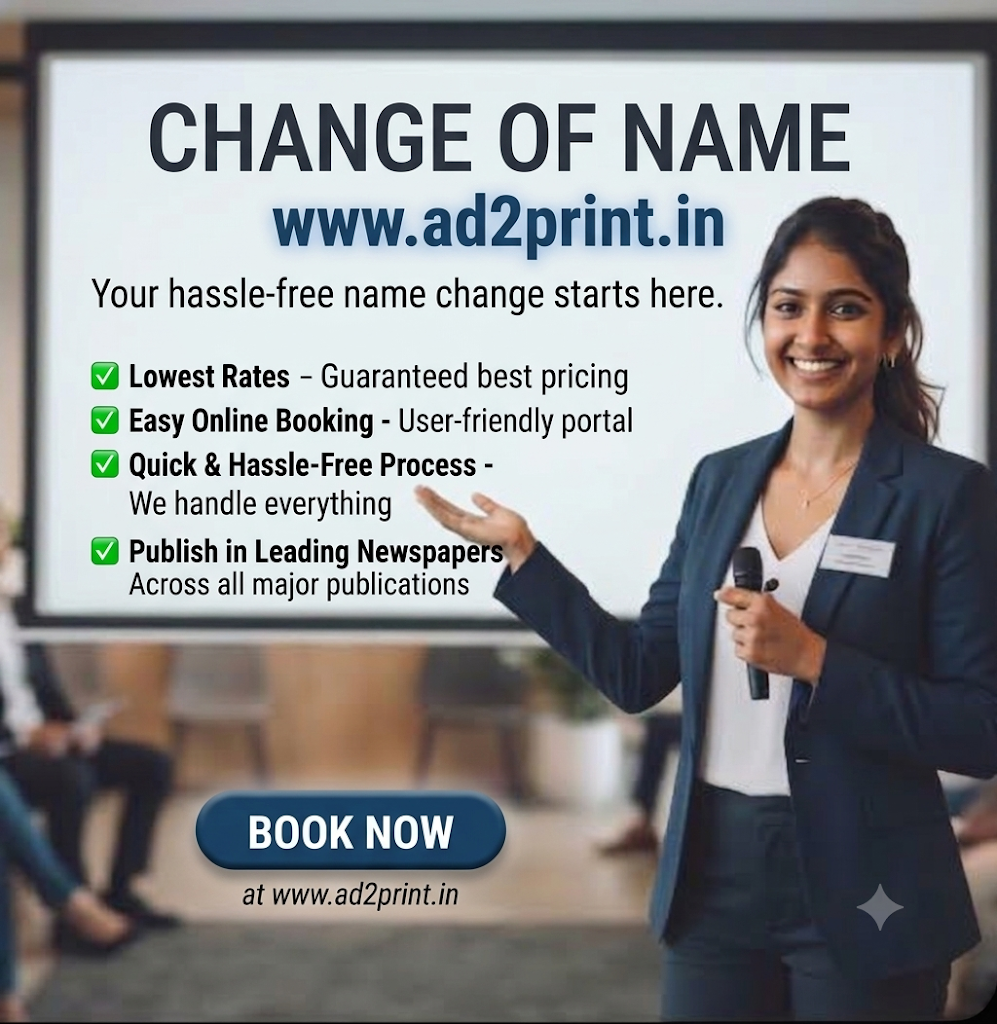
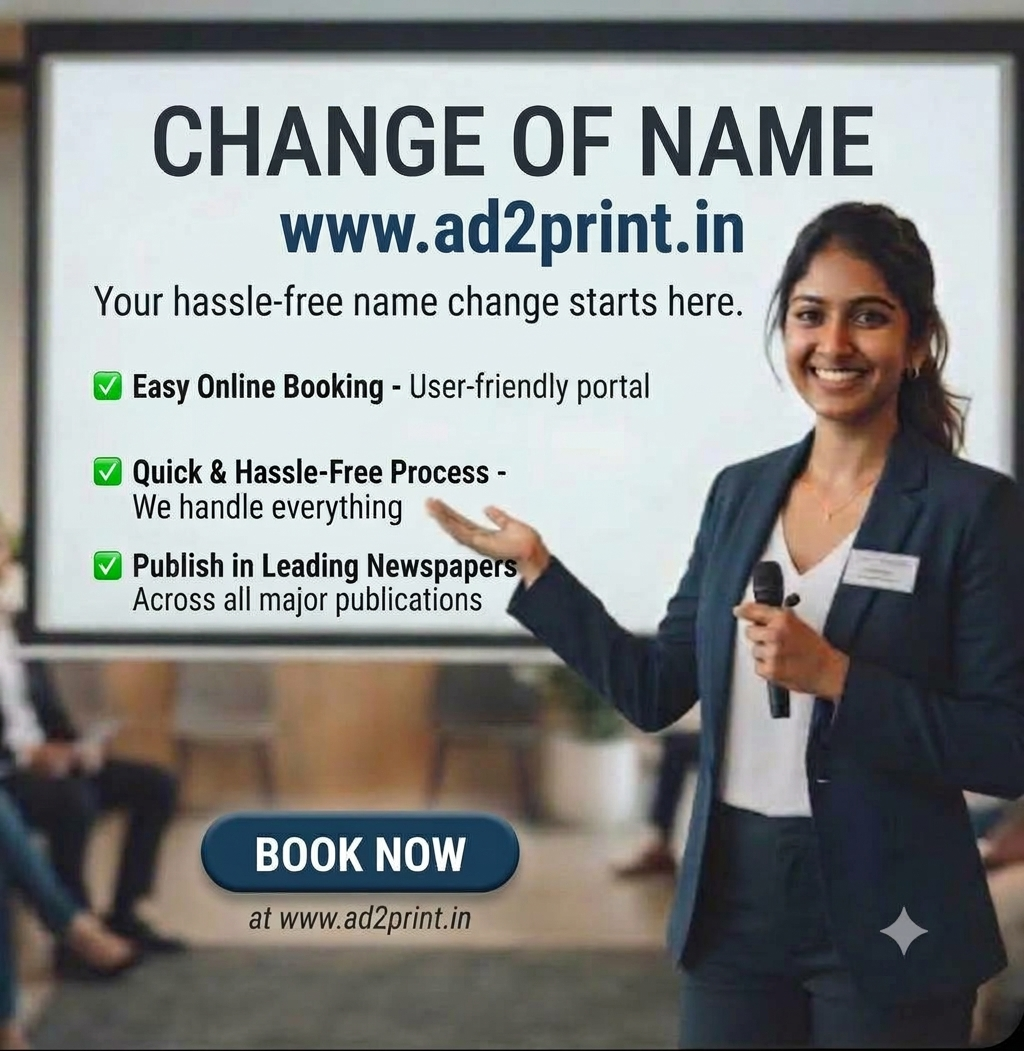
Use new Change of Name image in hero and sample section

diff --git a/components/home/NameChangeSection.tsx b/components/home/NameChangeSection.tsx
@@ -4,32 +4,32 @@ import Image from "next/image";
 import Link from "next/link";
 import { CategoryTrigger } from "@/components/CategoryTrigger";
 
-const SECTION_IMAGE = "/ads/change-of-name-section.png";
+const SECTION_IMAGE = "/ads/change-of-name-hero.png";
 
 const SAMPLE_ADS = [
   {
     header: "Change of Name",
     headerClass: "bg-maroon text-white",
     bodyClass: "bg-white",
-    text: "I, Sagar Singh S/o Raghuvir Singh R/o 382 B Mohammad Pur Delhi-110038 have changed my name to Sagar Singh Bisht for all purposes.",
+    text: "I, hitherto known as Anuj S/o Pawan Kumar R/o H.No.1492, Gali No.4-B, Swatantra Nagar, Narela, Delhi-110040 have changed my name and shall hereafter be known as Anuj Kumar for all purposes.",
   },
   {
     header: "Name Change",
     headerClass: "bg-ink text-white",
     bodyClass: "bg-[#eef2f6]",
-    text: "I, Rajesh Kumar S/o Suresh Kumar R/o Delhi have changed my name to Rajesh Singh for all purposes.",
+    text: "I, Savitri D/o Amar Singh W/o Bhoop Singh R/o H.No. G-82, Punjabi Colony, Narela, Delhi-110040, do hereby declare that the name of my father has been wrongly written in my PAN Card as Umar Singh. The actual name of my father is Amar Singh.",
   },
   {
     header: "Change of Name",
     headerClass: "bg-maroon text-white",
     bodyClass: "bg-[#f3f3f3] border border-maroon/50",
-    text: "I, Sinu Joseph W/o Vikshut Mundkur R/o Bengaluru have changed my name to Sinu Joseph for all purposes.",
+    text: "I, Lekhraj Singh S/o Ajit Singh R/o RZ-119A/120B, Gali No.8A, DD-House, Kailashpuri Extension, Palam Colony, Palam Village, South West Delhi-110045, have changed the name of my minor son Shashwat Singh aged 11 years and he shall hereafter be known as Leyaansh Singh.",
   },
   {
     header: "Name Change",
     headerClass: "bg-ink text-white",
     bodyClass: "bg-[#e8edf2]",
-    text: "I, Arjun Mehta S/o Ved Mehta R/o Sector 62, Noida have changed my son’s name to Ved Arjun Mehta for all purposes.",
+    text: "I, Sheik Jenia Hasseen W/o Mohibur Biswas R/o N-137, N-Block, Gali No.1, Narayan Nagar, Laxmi Nagar, Delhi-110092 declare that my name has been wrongly written as S K Jenia Hasseen in my 10th and 12th Certificates, SK Jenia Hassen and SK. Jenia Hassen in my Graduation and Post Graduation Certificates respectively. The correct name is Sheik Jenia Hasseen, which may be amended accordingly.",
   },
 ];
 
@@ -78,11 +78,11 @@ export function NameChangeSection() {
               <div className="relative aspect-square overflow-hidden bg-white">
               <Image
                 src={SECTION_IMAGE}
-                alt="AD2PRINT Change of Name graphic"
+                alt="Change of Name - Your hassle-free name change starts here at www.ad2print.in"
                 fill
                 priority
                 sizes="(max-width: 1024px) 90vw, 40vw"
-                className="object-cover object-center"
+                className="object-contain object-center"
               />
               </div>
             </div>

diff --git a/components/home/Hero.tsx b/components/home/Hero.tsx
@@ -95,9 +95,9 @@ export function Hero() {
           <div className="hero-float relative overflow-hidden border border-white/70 bg-white/40 p-2 shadow-[0_24px_60px_rgba(26,27,30,0.14)] backdrop-blur-[2px] sm:p-3">
             <Image
               src="/ads/change-of-name-hero.png"
-              alt="AD2PRINT Change of Name — publish your notice for passport, bank, Aadhaar and gazette updates"
-              width={997}
-              height={1024}
+              alt="Change of Name - Your hassle-free name change starts here at www.ad2print.in"
+              width={1024}
+              height={1051}
               priority
               unoptimized
               className="mx-auto h-auto max-h-[400px] w-full object-contain sm:max-h-[460px] lg:max-h-[500px]"
